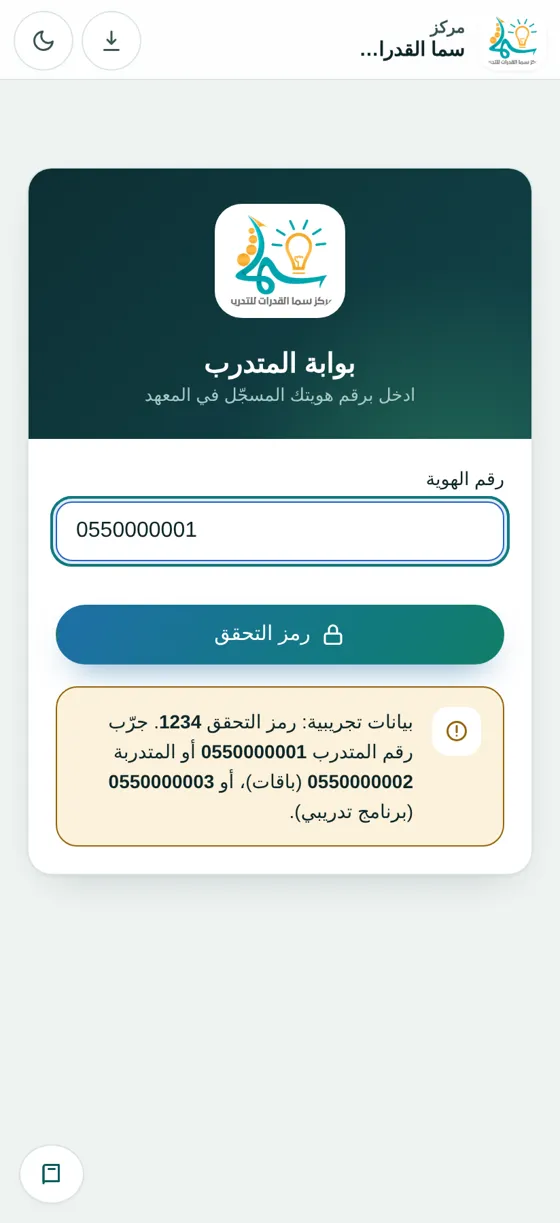
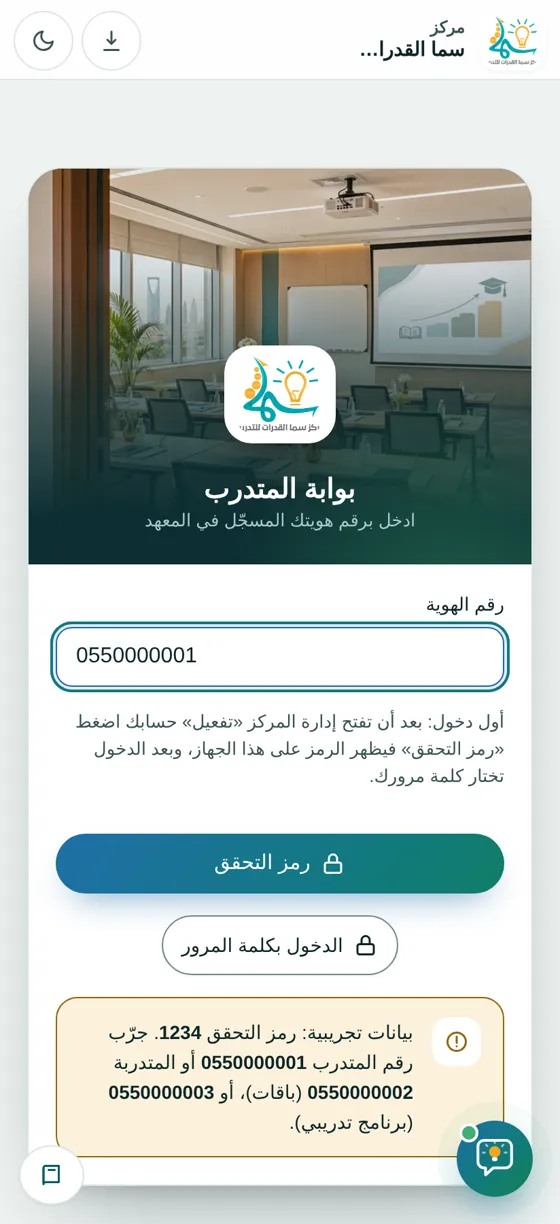
الخطوة BW: صور واقعية للبوابات الثلاث في صفحة البوابات وشاشات الدخول (#100)
Claude-Session: https://claude.ai/code/session_012j61WKYZfV81i5FMwMRcDZ

diff --git a/src/portals.js b/src/portals.js
@@ -14,6 +14,7 @@ import { ic, emptyBox, ringSvg, toast, statusPill, applyTheme, getTheme, setThem
 import { Store, initStore, cohortItemsOf, LEVEL_TXT, enrollmentStats, isSessionDay, cohortState } from './data2.js';
 import { setPage, publicBase } from './config.js';
 import { LOGO } from './assets/logo.js';
+import { PORTAL_PHOTO } from './portal_art.js';
 import { studentDashboard, teacherDashboard, guardianDashboard, ROLE_TXT, NOTIFY_TPL, normPhone, progressGauge, GAUGE_RED, mirrorData } from './portal_logic.js';
 import { modal, closeModal } from './views2_programs.js';
 import { setBusy, toLatin, liveSay } from './features.js';
@@ -123,7 +124,7 @@ function viewLogin(){
   const demo = Store.mode !== 'cloud';
   const mode = loginMode || (demo && !pwKnown() ? 'code' : 'pw'), forgot = mode === 'forgot', codeMode = mode !== 'pw';
   $('#app').innerHTML = `<div class="wrap"><div class="login card rv">
-    <div class="checkin" style="max-width:none"><div class="head"><img src="${LOGO}" alt=""><h2>${TITLES[ROLE]}</h2><div class="hint">${ROLE === 'guardian' ? 'ادخل برقم هوية ابنك المسجّل في المعهد' : 'ادخل برقم هويتك المسجّل في المعهد'}</div></div></div>
+    <div class="checkin" style="max-width:none"><div class="head${PORTAL_PHOTO[ROLE] ? ' ph' : ''} pr-${ROLE}">${PORTAL_PHOTO[ROLE] ? `<img class="lg-photo" src="${PORTAL_PHOTO[ROLE]}" alt="">` : ''}<img src="${LOGO}" alt=""><h2>${TITLES[ROLE]}</h2><div class="hint">${ROLE === 'guardian' ? 'ادخل برقم هوية ابنك المسجّل في المعهد' : 'ادخل برقم هويتك المسجّل في المعهد'}</div></div></div>
     <form id="pl" class="grid pad" novalidate data-mode="${mode}">
       <div class="field"><label for="pl-phone">${ROLE === 'guardian' ? 'رقم هوية المتدرب (ابنك)' : 'رقم الهوية'}</label><input class="inp num" id="pl-phone" name="phone" inputmode="numeric" maxlength="10" dir="ltr" placeholder="10 أرقام" autocomplete="off"></div>
       ${codeMode ? `<p class="hint" style="margin:0" id="plModeH">${forgot ? 'نسيت كلمة المرور: اطلب من إدارة المركز «تفعيل» حسابك، ثم اكتب هويتك واضغط «رمز التحقق» فيظهر الرمز على هذا الجهاز، وبعد الدخول تختار كلمة مرور جديدة وتخرج أجهزتك الأخرى.' : 'أول دخول: بعد أن تفتح إدارة المركز «تفعيل» حسابك اضغط «رمز التحقق» فيظهر الرمز على هذا الجهاز، وبعد الدخول تختار كلمة مرورك.'}</p>

diff --git a/src/style.css b/src/style.css
@@ -1720,3 +1720,20 @@ body.sim-on{overflow:hidden}
 @keyframes ppKb{from{transform:scale(1.08)}to{transform:none}}
 @media(max-width:700px){.pp-banner{aspect-ratio:16/9}}
 @media(prefers-reduced-motion:reduce){.pp-banner img{animation:none}.choice.pcard,.pc-img img{transition:none}}
+
+/* ---------- صور البوابات الواقعية (الخطوة BW) ---------- */
+.portal-card:has(.pc-photo){padding-top:0;justify-items:center;box-shadow:0 1px 0 rgba(255,255,255,.6) inset,0 2px 4px rgba(15,38,40,.06),0 22px 44px -26px rgba(15,38,40,.45)}
+.portal-card:has(.pc-photo)::before{display:none}
+.portal-card:has(.pc-photo):hover,.portal-card:has(.pc-photo):focus-visible{transform:translateY(-8px);border-color:var(--pc);box-shadow:0 0 0 1px var(--pc),0 30px 60px -26px color-mix(in srgb,var(--pc) 60%,transparent),0 12px 24px -16px rgba(15,38,40,.35)}
+.pc-photo{display:block;position:relative;width:calc(100% + 44px);margin:0 -22px 6px;aspect-ratio:4/3;overflow:hidden;background:linear-gradient(135deg,var(--pc-t),var(--surface-track))}
+.pc-photo img{width:100%;height:100%;object-fit:cover;display:block;transition:transform .8s var(--ease)}
+.pc-photo::after{content:"";position:absolute;inset:0;background:linear-gradient(to top,var(--surface-card) 0%,transparent 16%),linear-gradient(to bottom,color-mix(in srgb,var(--pc) 22%,transparent),transparent 40%)}
+.portal-card:hover .pc-photo img,.portal-card:focus-visible .pc-photo img{transform:scale(1.07)}
+.checkin .head.ph{padding-top:168px;background:var(--hero-bg)}
+.checkin .head.ph .lg-photo{position:absolute;inset:0;width:100%;height:100%;object-fit:cover;z-index:-2;background:none;border-radius:0;padding:0;animation:lgKb 16s ease-out both}
+.checkin .head.ph::before{content:"";position:absolute;inset:0;z-index:-1;background:linear-gradient(to top,var(--hero-bg) 12%,color-mix(in srgb,var(--hero-bg) 70%,transparent) 42%,color-mix(in srgb,var(--hero-bg) 10%,transparent) 75%)}
+.checkin .head.ph img:not(.lg-photo){height:72px;box-shadow:0 12px 26px -12px rgba(0,0,0,.55)}
+@keyframes lgKb{from{transform:scale(1.08)}to{transform:none}}
+@media(prefers-reduced-motion:reduce){.pc-photo img{transition:none}.checkin .head.ph .lg-photo{animation:none}}
+@media(max-width:640px){.checkin .head.ph{padding-top:130px}}
+.login:has(.head.ph){border-radius:26px;border:1px solid var(--border);box-shadow:0 1px 0 rgba(255,255,255,.6) inset,0 30px 60px -30px rgba(15,38,40,.5),0 10px 20px -14px rgba(15,38,40,.25)}

diff --git a/src/views2_main.js b/src/views2_main.js
@@ -1,5 +1,5 @@
 import { programImg, stBadge } from './program_showcase.js';
-import { PORTAL_ART } from './portal_art.js';
+import { PORTAL_ART, PORTAL_PHOTO } from './portal_art.js';
 import { LOGO } from './assets/logo.js';
 import { CATEGORIES, CAT_ICON, CENTER, catPill } from './catalog.js';
 import { PAGE, adminBase, publicBase, portalBase } from './config.js';
@@ -484,7 +484,7 @@ export function viewPortals(){
   $('#app').innerHTML = `<section class="portals-page"><div class="wrap">
     <div class="sec-head rv portals-head"><span class="kicker">البوابات</span><h2>اختر <em>بوابتك</em></h2><p class="hint">الدخول برقم الهوية، وفي المرة الأولى برمز التفعيل من إدارة المركز.</p></div>
     <div class="portals-grid">${C.map(([k,t,who,d,c],n)=>`<a class="portal-card pc-${c} rv" style="--i:${n}" href="${portalBase(k)}">
-      <span class="pc-art">${PORTAL_ART[k]}</span><span class="pc-who">${who}</span><b>${t}</b><span class="hint">${d}</span><span class="pl-cta">دخول ${ic('next')}</span></a>`).join('')}</div></div></section>${siteFooter()}`;
+      ${PORTAL_PHOTO[k]?`<span class="pc-photo"><img src="${PORTAL_PHOTO[k]}" alt="" loading="lazy" decoding="async"></span>`:''}${PORTAL_PHOTO[k]?'':`<span class="pc-art">${PORTAL_ART[k]}</span>`}<span class="pc-who">${who}</span><b>${t}</b><span class="hint">${d}</span><span class="pl-cta">دخول ${ic('next')}</span></a>`).join('')}</div></div></section>${siteFooter()}`;
 }
 /* الباركود الموحد لكل البرامج والباقات (D-03): يُطبع ويُعلَّق في المعهد ولا يتغير */
 export async function viewQRCheckin(){

diff --git a/src/portal_art.js b/src/portal_art.js
@@ -32,3 +32,7 @@ export const PORTAL_ART = {
     ${bust('pt', 34, 64, 1, 'bl')}
     <path d="M48 70 66 46" stroke="url(#ptgd)" stroke-width="4" stroke-linecap="round"/><circle cx="66" cy="46" r="3.5" fill="#D99A1E"/></svg>`,
 };
+
+/* صور واقعية للبوابات الثلاث (الخطوة BW، طلب المالك 24 نوفمبر): قاعة التدريب للمتدرب، ومكتب المدرب، والأب والأم لولي الأمر */
+const PHOTO = import.meta.glob('./assets/portals/*.webp', { eager:true, query:'?url', import:'default' });
+export const PORTAL_PHOTO = { student:PHOTO['./assets/portals/student.webp'] || '', teacher:PHOTO['./assets/portals/teacher.webp'] || '', guardian:PHOTO['./assets/portals/guardian.webp'] || '' };

diff --git a/docs/STATUS.md b/docs/STATUS.md
@@ -421,3 +421,8 @@
 ## BV — سرعة عرض البرامج وحارس الصور (24 نوفمبر 2026)
 - صور العرض المتحرك لا تُطلب إلا حين يقترب القسم (شاشة واحدة قبل الوصول، IntersectionObserver)، وصورة الوسط بأولوية عالية والطابور منخفضة، وتظهر بتلاشٍ فوق خلفية بلون المركز.
 - `tests/image_budget.mjs`: يوقف الفحص إن كانت صورة برنامج أثقل من 150KB أو أعرض من 1200px أو بلا رمز في `programImg`.
+
+## BW — صور البوابات الواقعية (24 نوفمبر 2026، طلب المالك)
+- ثلاث صور من المالك في `src/assets/portals/` (WebP 1200px): قاعة التدريب للمتدرب، ومكتب المدرب، والأب والأم لولي الأمر (`PORTAL_PHOTO` في `src/portal_art.js`).
+- صفحة «البوابات»: الصورة وحدها أعلى كل بطاقة (أُزيل الرسم المجسّم بطلب المالك)، وحدود وظلال، ورفعة وتوهج بلون البوابة وتقريب الصورة عند المرور.
+- شاشة الدخول لكل بوابة: الصورة خلف الشعار والعنوان بتدرج لون المركز وحركة تقريب بطيئة.
